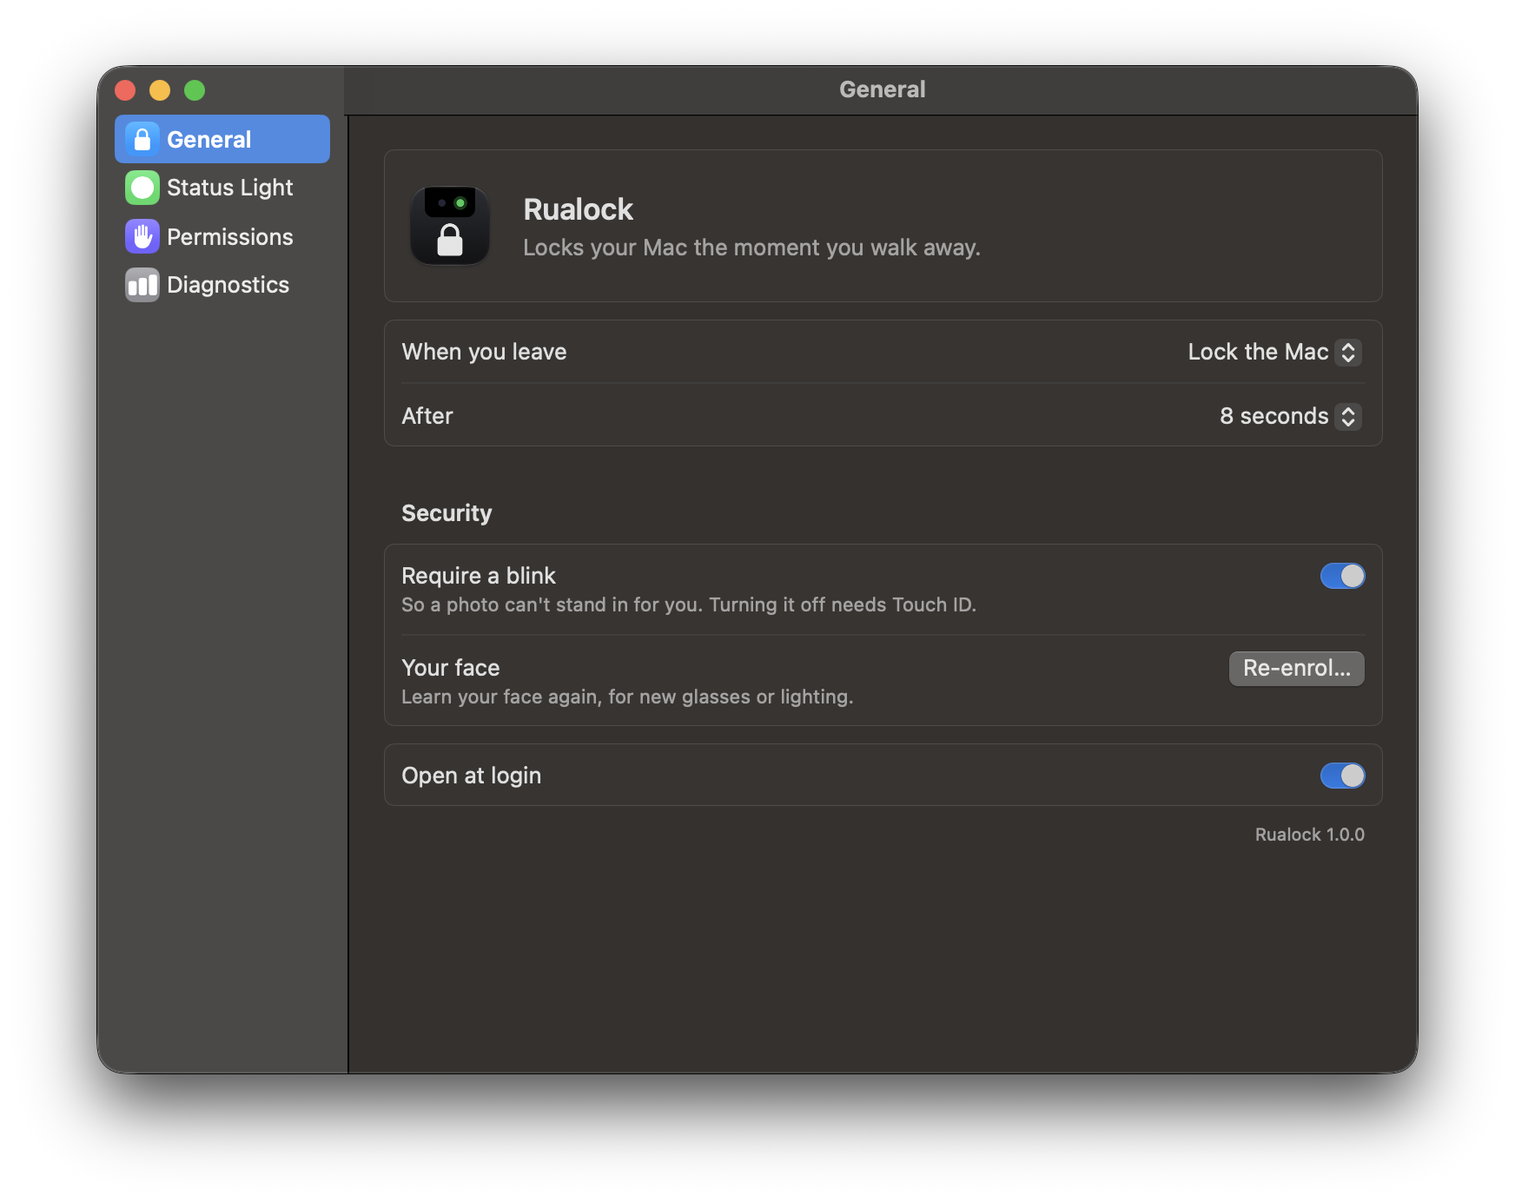
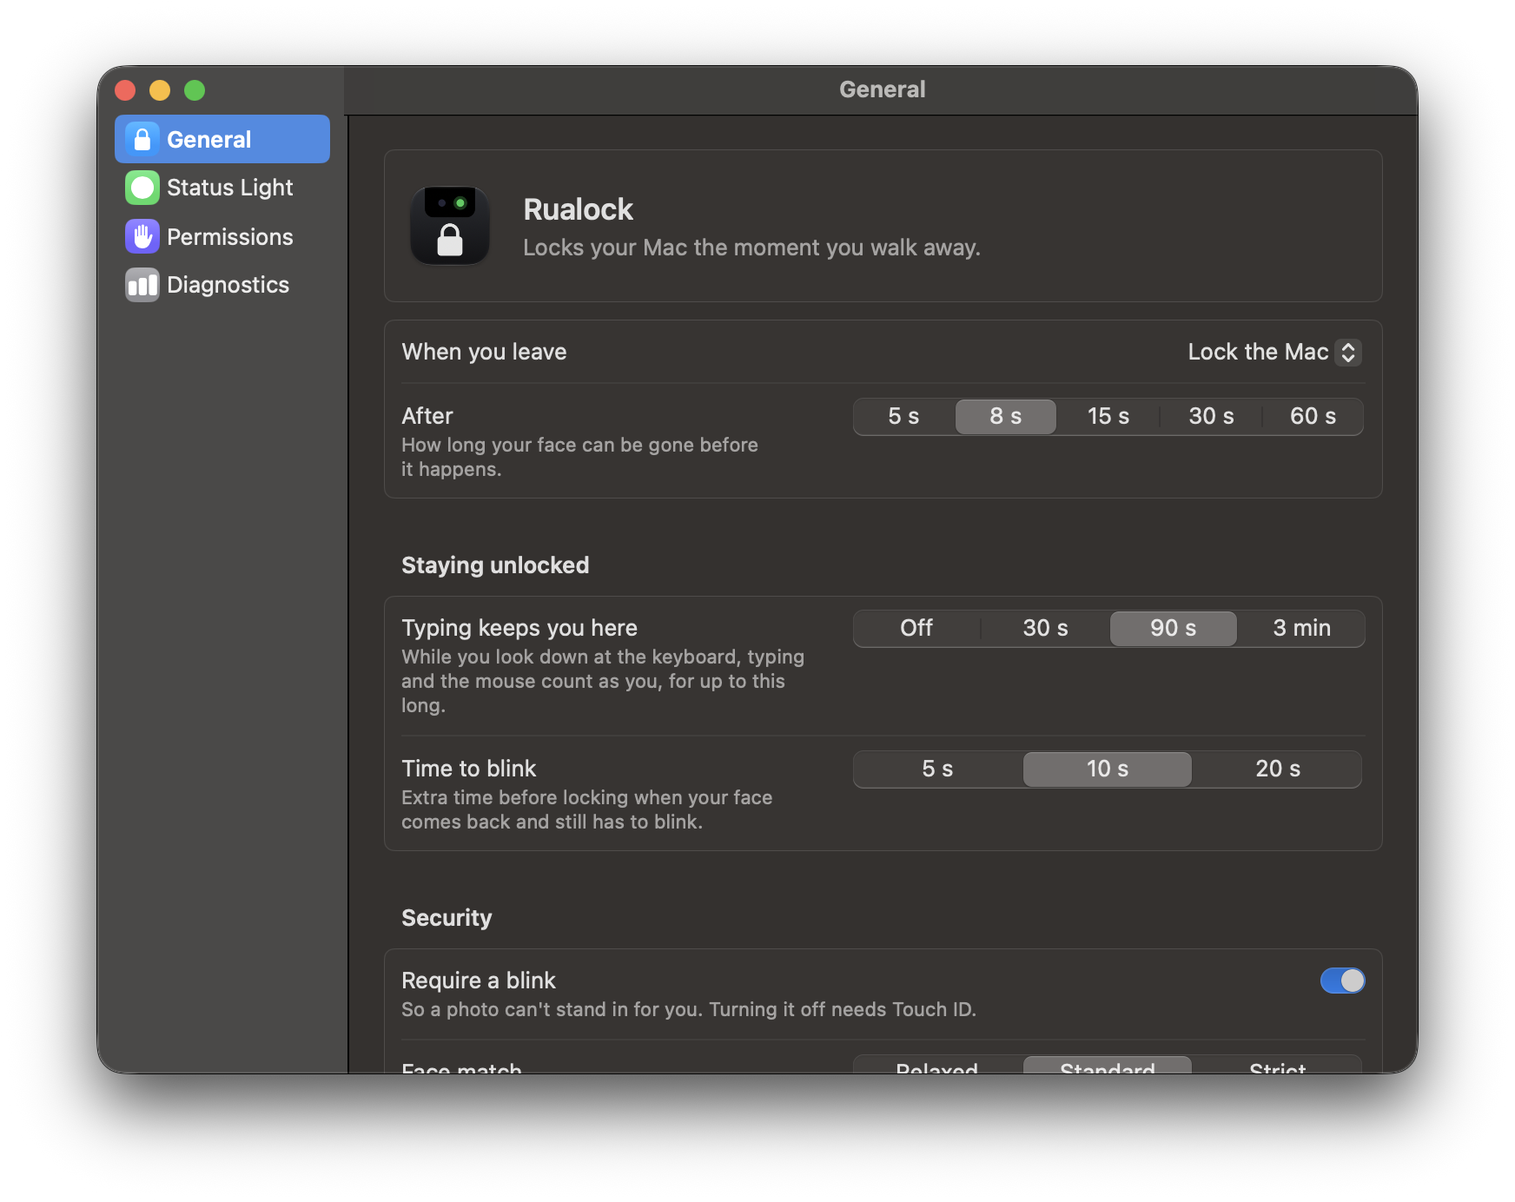
Three-way Show switch, and more tuning in Settings (#5)
The status light switch could not be turned back on: hiding the light
disabled the whole Status Light pane, including the switch. It is now one
segmented control (Next to the camera / Both / Menu bar) that never
disables.

General now has segmented controls for the lock delay, how long typing
keeps you present (off, 30 s, 90 s, 3 min), the time to blink (5, 10,
20 s) and how closely a face must match (Relaxed needs Touch ID).

diff --git a/Sources/Rualock/SettingsWindow.swift b/Sources/Rualock/SettingsWindow.swift
@@ -83,6 +83,9 @@ final class SettingsModel: ObservableObject {
     @Published var startsAtLogin = System.startsAtLogin
     @Published var diagnostics = Prefs.recordDiagnostics
     @Published var lockDelay = Prefs.lockDelay
+    @Published var typingLimit = Prefs.typingLimit
+    @Published var blinkGrace = Prefs.blinkGrace
+    @Published var strictness = Prefs.matchStrictness
     @Published var height = Prefs.islandHeight
     @Published var dot = Prefs.islandDot
     @Published var text = Prefs.islandText
@@ -111,6 +114,9 @@ final class SettingsModel: ObservableObject {
         startsAtLogin = System.startsAtLogin
         diagnostics = Prefs.recordDiagnostics
         lockDelay = Prefs.lockDelay
+        typingLimit = Prefs.typingLimit
+        blinkGrace = Prefs.blinkGrace
+        strictness = Prefs.matchStrictness
         height = Prefs.islandHeight
         dot = Prefs.islandDot
         text = Prefs.islandText
@@ -165,6 +171,32 @@ final class SettingsModel: ObservableObject {
         note("lock delay set to \(Int(seconds))s")
     }
 
+    func setTypingLimit(_ seconds: Double) {
+        Prefs.typingLimit = seconds
+        typingLimit = seconds
+        note(seconds > 0 ? "typing keeps you present for up to \(Int(seconds))s" : "typing no longer keeps you present")
+    }
+
+    func setBlinkGrace(_ seconds: Double) {
+        Prefs.blinkGrace = seconds
+        blinkGrace = seconds
+        note("time to blink set to \(Int(seconds))s")
+    }
+
+    /// A looser match weakens protection, so it needs Touch ID like turning the blink check off does.
+    func setStrictness(_ s: MatchStrictness) {
+        let apply = { [weak self] in
+            Prefs.matchStrictness = s
+            self?.strictness = s
+            note("face match: \(s.rawValue) (threshold \(Prefs.threshold))")
+        }
+        guard s == .relaxed, Prefs.matchStrictness != .relaxed else { return apply() }
+        objectWillChange.send()  // the control stays where it was until Touch ID succeeds
+        System.authenticate("relax how closely a face must match yours in Rualock") { ok in
+            if ok { apply() }
+        }
+    }
+
     /// Turning the blink check off weakens protection, so it needs Touch ID like pausing does.
     func setBlink(_ on: Bool) {
         guard !on else {
@@ -182,11 +214,18 @@ final class SettingsModel: ObservableObject {
         }
     }
 
-    /// One of the two must stay on, or you'd have no way back to the menu short of opening the app again.
-    func setShow(island: Bool? = nil, menuBar: Bool? = nil) {
-        if let island { Prefs.showIsland = island }
-        if let menuBar { Prefs.showMenuBarIcon = menuBar }
-        if !Prefs.showIsland && !Prefs.showMenuBarIcon { Prefs.showIsland = true }
+    /// Where Rualock shows itself. There's no "neither": you'd have no way back to the menu.
+    var show: ShowPlace {
+        switch (showIsland, showMenuBar) {
+        case (true, false): return .light
+        case (false, true): return .menuBar
+        default: return .both
+        }
+    }
+
+    func setShow(_ place: ShowPlace) {
+        Prefs.showIsland = place != .menuBar
+        Prefs.showMenuBarIcon = place != .light
         showIsland = Prefs.showIsland
         showMenuBar = Prefs.showMenuBarIcon
         note("show: status light \(showIsland ? "on" : "off"), menu bar icon \(showMenuBar ? "on" : "off")")
@@ -270,6 +309,31 @@ struct SettingsView: View {
     }
 }
 
+/// Where Rualock shows itself: the light next to the camera, the menu bar icon, or both.
+enum ShowPlace: CaseIterable {
+    case light, both, menuBar
+
+    var title: String {
+        switch self {
+        case .light: return "Next to the camera"
+        case .both: return "Both"
+        case .menuBar: return "Menu bar"
+        }
+    }
+
+    var footer: String {
+        switch self {
+        case .light: return "The status light grows out of the notch; click it for Rualock's menu."
+        case .both: return "The status light by the notch and an icon in the menu bar, both with Rualock's menu."
+        case .menuBar: return "Just an icon in the menu bar, like any other menu bar app."
+        }
+    }
+}
+
+private func duration(_ seconds: Double) -> String {
+    seconds == 0 ? "Off" : seconds < 60 || seconds.truncatingRemainder(dividingBy: 60) != 0 ? "\(Int(seconds)) s" : "\(Int(seconds / 60)) min"
+}
+
 private func bind<T>(_ get: @escaping () -> T, _ set: @escaping (T) -> Void) -> Binding<T> {
     Binding(get: get, set: set)
 }
@@ -324,9 +388,13 @@ private struct GeneralPane: View {
                     Text("Lock the Mac").tag(false)
                     Text("Freeze the screen (prank)").tag(true)
                 }
-                Picker("After", selection: bind({ model.lockDelay }, model.setLockDelay)) {
-                    ForEach(Prefs.lockDelays, id: \.self) { Text("\(Int($0)) seconds").tag($0) }
+                Picker(selection: bind({ model.lockDelay }, model.setLockDelay)) {
+                    ForEach(Prefs.lockDelays, id: \.self) { Text("\(Int($0)) s").tag($0) }
+                } label: {
+                    Text("After")
+                    Text("How long your face can be gone before it happens.")
                 }
+                .pickerStyle(.segmented)
                 if model.freeze {
                     LabeledContent {
                         permission(model.canBlockAll) { InputBlocker.requestAccess() }
@@ -344,11 +412,36 @@ private struct GeneralPane: View {
                 }
             }
 
+            Section("Staying unlocked") {
+                Picker(selection: bind({ model.typingLimit }, model.setTypingLimit)) {
+                    ForEach(Prefs.typingLimits, id: \.self) { Text(duration($0)).tag($0) }
+                } label: {
+                    Text("Typing keeps you here")
+                    Text("While you look down at the keyboard, typing and the mouse count as you, for up to this long.")
+                }
+                .pickerStyle(.segmented)
+                Picker(selection: bind({ model.blinkGrace }, model.setBlinkGrace)) {
+                    ForEach(Prefs.blinkGraces, id: \.self) { Text("\(Int($0)) s").tag($0) }
+                } label: {
+                    Text("Time to blink")
+                    Text("Extra time before locking when your face comes back and still has to blink.")
+                }
+                .pickerStyle(.segmented)
+                .disabled(!model.blink)
+            }
+
             Section("Security") {
                 Toggle(isOn: bind({ model.blink }, model.setBlink)) {
                     Text("Require a blink")
                     Text("So a photo can't stand in for you. Turning it off needs Touch ID.")
                 }
+                Picker(selection: bind({ model.strictness }, model.setStrictness)) {
+                    ForEach(MatchStrictness.allCases, id: \.self) { Text($0.title).tag($0) }
+                } label: {
+                    Text("Face match")
+                    Text("How closely a face must match yours. Strict suits good light; Relaxed needs Touch ID.")
+                }
+                .pickerStyle(.segmented)
                 LabeledContent {
                     Button("Re-enrol…", action: model.reenroll)
                 } label: {
@@ -373,21 +466,20 @@ private struct StatusLightPane: View {
     var body: some View {
         Form {
             Section {
+                Picker("Show Rualock", selection: bind({ model.show }, model.setShow)) {
+                    ForEach(ShowPlace.allCases, id: \.self) { Text($0.title).tag($0) }
+                }
+                .pickerStyle(.segmented)
+            } footer: {
+                Text(model.show.footer).settingsFooter()
+            }
+
+            Section {
                 IslandPreview(look: [model.shownHeight, model.dot, model.text, model.corner, model.ear, model.join])
                     .frame(height: 110)
                     .clipShape(RoundedRectangle(cornerRadius: 8, style: .continuous))
                     .listRowInsets(EdgeInsets())
-            }
-
-            Section {
-                Toggle("Next to the camera", isOn: bind({ model.showIsland }, { model.setShow(island: $0) }))
-                    .disabled(!model.showMenuBar)
-                Toggle("In the menu bar", isOn: bind({ model.showMenuBar }, { model.setShow(menuBar: $0) }))
-                    .disabled(!model.showIsland)
-            } header: {
-                Text("Show")
-            } footer: {
-                Text("At least one stays on, so you can always reach Rualock's menu.").settingsFooter()
+                    .opacity(model.showIsland ? 1 : 0.4)
             }
 
             Section {
@@ -397,6 +489,7 @@ private struct StatusLightPane: View {
             } header: {
                 Text("Look")
             }
+            .disabled(!model.showIsland)
 
             Section {
                 let atNotch = model.shownHeight >= model.heightRange.upperBound - 0.25
@@ -414,8 +507,8 @@ private struct StatusLightPane: View {
                 Text("Corner radius rounds the outer bottom corner. Top flare curves the light into the top of the screen; Notch join curves it into the side of the notch below (only while it's shorter than the notch). Moving a slider switches the style to Custom.")
                     .settingsFooter()
             }
+            .disabled(!model.showIsland)
         }
-        .disabled(!model.showIsland)
     }
 
     private func points(_ v: Double) -> String { String(format: "%g pt", v) }

diff --git a/Sources/Rualock/Watcher.swift b/Sources/Rualock/Watcher.swift
@@ -11,7 +11,6 @@ final class Watcher {
     private enum Seen { case you, unverified, nobody }
 
     /// Extra time to blink when a matching face appears after a gap (looking back, after a pause).
-    static let blinkGrace: TimeInterval = 10
     /// After an unlock, the first matching face within this long is trusted without a blink.
     static let unlockTrust: TimeInterval = 10
     /// Recognition runs at most this often; blink tracking runs on every frame.
@@ -90,7 +89,8 @@ final class Watcher {
         Diagnostics.shared.event("start", [
             "version": version, "lockDelay": Prefs.lockDelay, "threshold": Double(Prefs.threshold),
             "requireBlink": Prefs.requireBlink, "freezeInstead": Prefs.freezeInstead, "dryRun": Prefs.dryRun,
-            "samples": embeddings.count,
+            "samples": embeddings.count, "typingLimit": Prefs.typingLimit, "blinkGrace": Prefs.blinkGrace,
+            "matchStrictness": Prefs.matchStrictness.rawValue,
         ])
         tick()
     }
@@ -236,7 +236,7 @@ final class Watcher {
         // The grace can't stretch the countdown past lock delay + blink grace from your last confirmed
         // sighting: it only stops a flicker from cutting it short.
         let waitingForBlink = seen == .unverified || lastUnverified.map { now.timeIntervalSince($0) <= Self.graceHold } ?? false
-        lockDelay = Prefs.lockDelay + (waitingForBlink ? Self.blinkGrace : 0)
+        lockDelay = Prefs.lockDelay + (waitingForBlink ? Prefs.blinkGrace : 0)
         absentFor = now.timeIntervalSince(presence)
         if absentFor >= lockDelay {
             let reason = waitingForBlink ? "no blink" : now.timeIntervalSince(lastSeen) > absentFor + 0.5 ? "input stopped" : "face gone"
@@ -298,6 +298,7 @@ final class Watcher {
     /// Let keyboard and mouse input carry on from your confirmed face (see `PresenceChain`).
     private func followInput(_ now: Date) {
         let idle = System.inputIdle
+        chain.limit = Prefs.typingLimit  // a change in Settings applies straight away
         let change = chain.update(now: now, faceInView: seen == .you, faceAt: lastConfirmed ?? .distantPast,
                                   lastInput: now.addingTimeInterval(-idle))
         switch change {
@@ -312,7 +313,7 @@ final class Watcher {
         lastSeen = Date()
         lastConfirmed = nil
         lastUnverified = nil
-        chain = PresenceChain(at: lastSeen)
+        chain = PresenceChain(at: lastSeen, limit: Prefs.typingLimit)
     }
 
     private func idle(_ s: State) {

diff --git a/Sources/Rualock/Store.swift b/Sources/Rualock/Store.swift
@@ -12,10 +12,32 @@ enum Prefs {
         set { d.set(newValue, forKey: "lockDelay") }
     }
 
-    /// Cosine similarity needed to count a face as yours (OpenCV's recommended value for SFace).
+    /// Cosine similarity needed to count a face as yours: the strictness setting, unless overridden
+    /// with `defaults write com.rualock.mac matchThreshold`.
     static var threshold: Float {
         let v = d.float(forKey: "matchThreshold")
-        return v > 0 ? v : 0.363
+        return v > 0 ? v : matchStrictness.threshold
+    }
+
+    static var matchStrictness: MatchStrictness {
+        get { d.string(forKey: "matchStrictness").flatMap(MatchStrictness.init) ?? .standard }
+        set { d.set(newValue.rawValue, forKey: "matchStrictness") }
+    }
+
+    static let typingLimits: [Double] = [0, 30, 90, 180]
+
+    /// How long keyboard and mouse use can keep you present without your face (0: never). See `PresenceChain`.
+    static var typingLimit: Double {
+        get { d.object(forKey: "typingLimit") as? Double ?? 90 }
+        set { d.set(newValue, forKey: "typingLimit") }
+    }
+
+    static let blinkGraces: [Double] = [5, 10, 20]
+
+    /// Extra seconds before locking while a face that matches you hasn't blinked yet.
+    static var blinkGrace: Double {
+        get { let v = d.double(forKey: "blinkGrace"); return v > 0 ? v : 10 }
+        set { d.set(newValue, forKey: "blinkGrace") }
     }
 
     /// Log "would lock" instead of locking. Set with `-dryRun YES` on the command line.
@@ -123,6 +145,28 @@ enum Prefs {
     static var didOfferLoginItem: Bool {
         get { d.bool(forKey: "didOfferLoginItem") }
         set { d.set(newValue, forKey: "didOfferLoginItem") }
+    }
+}
+
+/// How closely a face must match your enrolment. Your own scores are mostly 0.6-0.8; other people's
+/// mostly under 0.3.
+enum MatchStrictness: String, CaseIterable {
+    case relaxed, standard, strict
+
+    var title: String {
+        switch self {
+        case .relaxed: return "Relaxed"
+        case .standard: return "Standard"
+        case .strict: return "Strict"
+        }
+    }
+
+    var threshold: Float {
+        switch self {
+        case .relaxed: return 0.30
+        case .standard: return 0.363  // OpenCV's recommended value for SFace
+        case .strict: return 0.45
+        }
     }
 }
 

diff --git a/Sources/Rualock/Liveness.swift b/Sources/Rualock/Liveness.swift
@@ -203,13 +203,17 @@ func iou(_ a: CGRect, _ b: CGRect) -> CGFloat {
 /// sits down after you leave can't pick it up; and it lasts at most `limit` without your face.
 struct PresenceChain {
     static let gap: TimeInterval = 3
-    static let limit: TimeInterval = 90
+    /// How long input can carry on without your face (Settings › Typing keeps you here); 0 turns it off.
+    var limit: TimeInterval = 90
 
     /// When you were last known to be here.
     private(set) var presence: Date
     private(set) var typing = false
 
-    init(at date: Date) { presence = date }
+    init(at date: Date, limit: TimeInterval = 90) {
+        presence = date
+        self.limit = limit
+    }
 
     /// `faceAt` is when your confirmed face was last in view; `lastInput` the latest keyboard or mouse
     /// event. Returns "start" or why it ended, when that changes.
@@ -219,14 +223,14 @@ struct PresenceChain {
             defer { typing = false }
             return typing ? "face back" : nil
         }
-        if lastInput > presence, lastInput.timeIntervalSince(presence) <= Self.gap, lastInput.timeIntervalSince(faceAt) <= Self.limit {
+        if lastInput > presence, lastInput.timeIntervalSince(presence) <= Self.gap, limit > 0, lastInput.timeIntervalSince(faceAt) <= limit {
             presence = lastInput
             defer { typing = true }
             return typing ? nil : "start"
         }
         if typing, now.timeIntervalSince(presence) > Self.gap {
             typing = false
-            return lastInput.timeIntervalSince(faceAt) > Self.limit ? "limit" : "input paused"
+            return lastInput.timeIntervalSince(faceAt) > limit ? "limit" : "input paused"
         }
         return nil
     }

diff --git a/Tests/RualockTests/LivenessTests.swift b/Tests/RualockTests/LivenessTests.swift
@@ -221,6 +221,13 @@ final class PresenceChainTests: XCTestCase {
         XCTAssertEqual(chain.presence, at(30))
     }
 
+    func testTypingCanBeTurnedOff() {
+        var chain = PresenceChain(at: t0, limit: 0)
+        XCTAssertNil(chain.update(now: at(1), faceInView: false, faceAt: t0, lastInput: at(1)))
+        XCTAssertFalse(chain.typing)
+        XCTAssertEqual(chain.presence, t0)
+    }
+
     func testAPauseInInputEndsIt() {
         var chain = PresenceChain(at: t0)
         _ = chain.update(now: at(1), faceInView: false, faceAt: t0, lastInput: at(1))

diff --git a/Sources/Rualock/Screenshots.swift b/Sources/Rualock/Screenshots.swift
@@ -35,6 +35,7 @@ final class Screenshots: NSObject, NSApplicationDelegate, IslandActions {
         // Render with default settings whatever yours are (the argument domain wins, and isn't saved).
         UserDefaults.standard.setVolatileDomain([
             "lockDelay": 8.0, "requireBlink": true, "showIsland": true, "showMenuBarIcon": true, "recordDiagnostics": true, "islandStyle": "standard", "freezeInstead": false,
+            "typingLimit": 90.0, "blinkGrace": 10.0, "matchStrictness": "standard",
         ], forName: UserDefaults.argumentDomain)
     }
 

diff --git a/README.md b/README.md
@@ -19,9 +19,9 @@ Rualock watches your webcam for *your* face. When your face has been gone for a 
 
 - **Recognises you, not just any face.** Someone else sitting down doesn't keep your Mac unlocked.
 - **A photo isn't enough.** A face that appears after a gap has to blink or talk before it counts as you, and a photo or a frozen screen does neither. Once your face is confirmed (by a blink, by talking, or by being there right after you unlock), it stays confirmed for as long as it's continuously in view. If the camera loses you for a moment (looking down makes detection flicker) and finds you again within 6 seconds, within about two face widths of where you were, you stay confirmed.
-- **Typing counts.** Looking down at the keyboard can hide your face from the camera. Keyboard and mouse use that carries straight on from your confirmed face, with no pause over 3 seconds, keeps you present for up to 90 seconds. Right after you unlock or click Resume, typing counts straight away. Someone sitting down after you leave can't pick it up, because standing up and sitting down takes longer than that.
+- **Typing counts.** Looking down at the keyboard can hide your face from the camera. Keyboard and mouse use that carries straight on from your confirmed face, with no pause over 3 seconds, keeps you present for up to 90 seconds (Settings › Typing keeps you here: off, 30 s, 90 s or 3 min). Right after you unlock or click Resume, typing counts straight away. Someone sitting down after you leave can't pick it up, because standing up and sitting down takes longer than that.
 - **Lives in the notch.** A black shape extends the camera housing, so it looks like part of the hardware. Hover over it to read the status; it opens and closes on a spring.
-- **Or just the menu bar.** A normal menu bar icon shows the same dot and countdown ring, and its menu has pause, lock, Settings and Quit. In Settings you can turn off the light next to the camera, the menu bar icon, or neither; at least one stays on. Settings has styles for the light (Compact, Standard, Large, Notch height) and, under Advanced, sliders for its height, dot, text, corner radius, and how it flares into the top of the screen and the side of the notch.
+- **Or just the menu bar.** A normal menu bar icon shows the same dot and countdown ring, and its menu has pause, lock, Settings and Quit. In Settings, "Show Rualock" picks the light next to the camera, the menu bar icon, or both. Settings has styles for the light (Compact, Standard, Large, Notch height) and, under Advanced, sliders for its height, dot, text, corner radius, and how it flares into the top of the screen and the side of the notch.
 - **Prank mode: freeze instead of lock.** In Settings, set "When you leave" to *Freeze the screen*. Instead of locking, Rualock covers the screen with an invisible window: everything looks unlocked, but clicks, typing, ⌘-Tab and Force Quit do nothing. It lifts when Rualock sees your face again (blink to confirm, so a photo won't do), or when the Mac is locked and unlocked (⌃⌘Q, the Touch ID button or closing the lid, then your password). While frozen, the dot turns red. If the camera stops working while frozen, Rualock locks for real. Switching it on needs Touch ID. Give Rualock Accessibility access (Settings › Permissions, and it asks when you switch freeze on) and it blocks all input: keys, clicks, the cursor, trackpad gestures and system shortcuts. Without it, only clicks and typing stop, and gestures and Spotlight still get through. Either way it's a prank, not a lock.
 - **Visible countdown.** When you leave, an amber ring drains around the dot, then the Mac locks.
 - **Pause with Touch ID.** Click the dot to pause for 15 minutes; a grey ring shows the time left. Locking the screen ends a pause, so protection is back on as soon as you log back in.
@@ -126,6 +126,7 @@ There are no images and no face embeddings in these files.
 - **Not a replacement for your password.** Rualock protects you when you walk away. It doesn't stop a determined attacker: the blink check stops photos, but a video of you blinking could still pass, and Mac webcams have no depth sensor to tell a screen from a face.
 - **Uses a private macOS function to lock.** It locks with `SACLockScreenImmediate` from `login.framework`, which is also why it isn't on the Mac App Store. If a future macOS removes the function, Rualock falls back to sleeping the display, which locks only when "Require password immediately" is on.
 - **Needs light.** Very dim rooms can make it lose you. Raise the lock delay in Settings if that happens.
+- **Tuning in Settings.** Besides the lock delay: how long typing keeps you present, how long you get to blink when your face comes back (5, 10 or 20 s), and how closely a face must match yours (Relaxed, Standard or Strict; Relaxed needs Touch ID).
 
 ## Project layout
 
